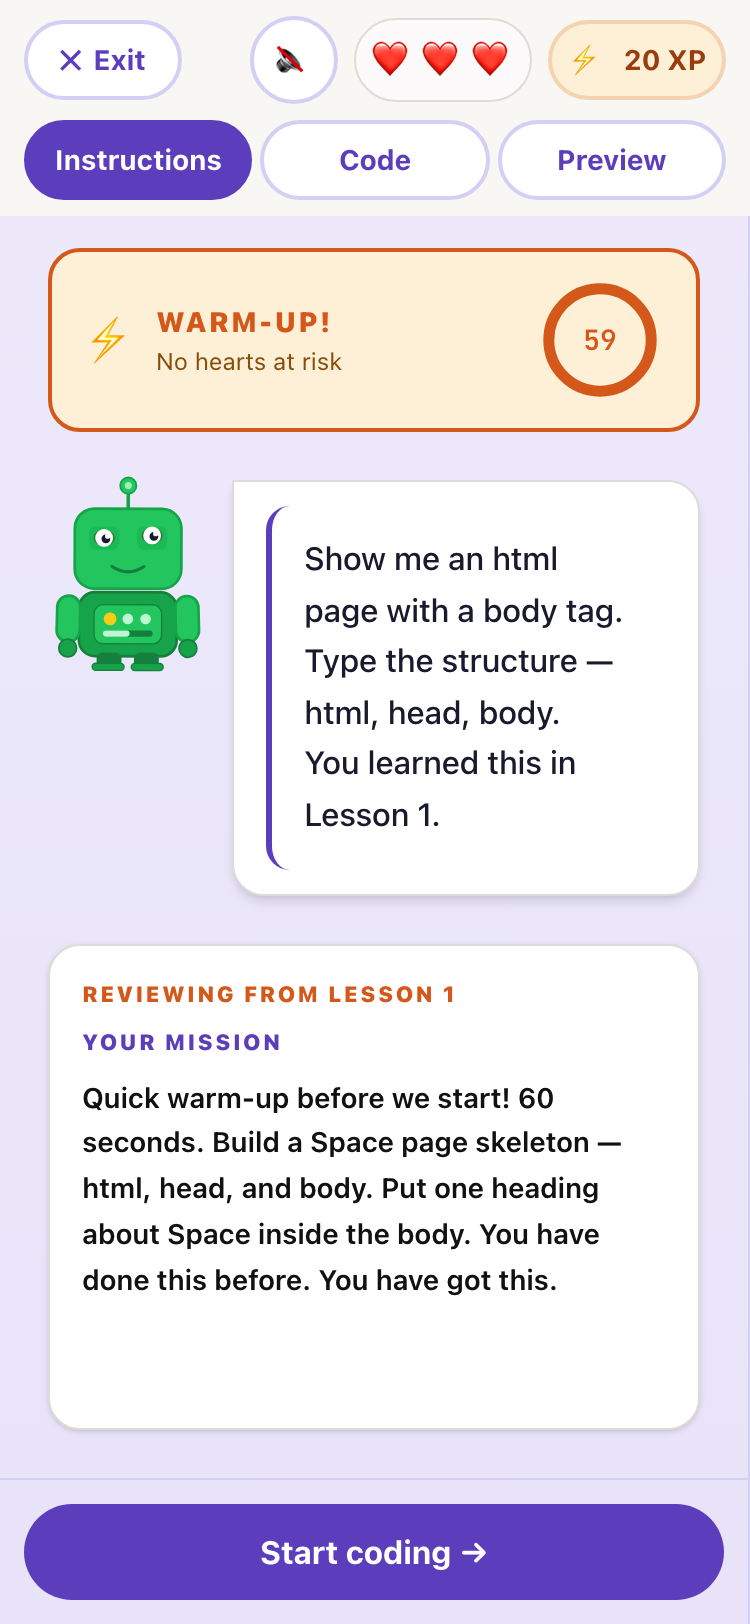
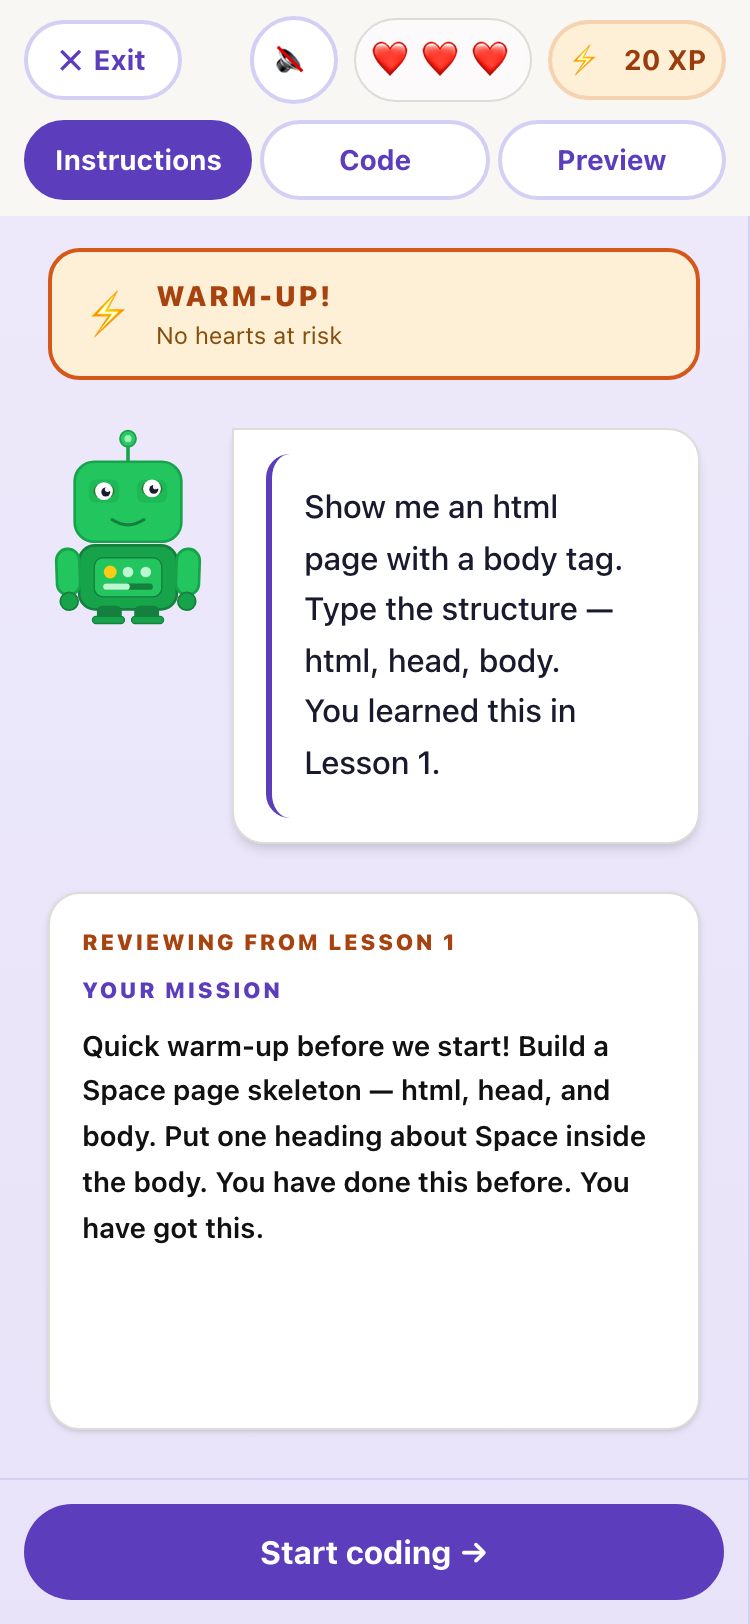
docs(case-study): record the 'after' and a before/after results page
Rerun scripts/a11y-report.mjs (same screens and settings as the
baseline) into docs/case-study/a11y-after: 0 axe violations on all 7
screens, down from 3-6 rules each. Retake responsive screenshots (no
horizontal overflow at 375/768/1280). docs/case-study/RESULTS.md
summarises accessibility (axe and accessibility trees), correctness,
learning design, security, responsive, performance and tests, each
linked to its evidence or commit.

Changed region(s): [[0.0613, 0.3079, 0.9507, 0.8005], [0.0613, 0.1539, 0.9507, 0.431]]

diff --git a/docs/case-study/RESULTS.md b/docs/case-study/RESULTS.md
@@ -1,0 +1,101 @@
+# Code4Kidz remediation: before and after
+
+Evidence for every claim below is in this folder or in the commit named next to it. The "before" is the app as
+prototyped (commit `395ae36`); the "after" is branch `chore/strip-scaffold` at `69c9148`.
+
+## Accessibility: automated (axe-core 4.13, WCAG 2.1 A/AA + best practice)
+
+Same script, same screens, same settings: `node scripts/a11y-report.mjs <dir>`.
+
+| Screen | Before: rules / elements | After |
+|---|---|---|
+| Landing | 4 / 27 | 0 / 0 |
+| Onboarding | 3 / 3 | 0 / 0 |
+| Map | 4 / 7 | 0 / 0 |
+| Lesson 1 intro | 4 / 9 | 0 / 0 |
+| Lesson step | 6 / 16 | 0 / 0 |
+| Lesson step, wrong answer shown | 6 / 16 | 0 / 0 |
+| Lesson step, hint open | 6 / 18 | 0 / 0 |
+
+Details: [`a11y-before/`](a11y-before/) and [`a11y-after/`](a11y-after/) (violations JSON, accessibility tree, screenshot
+per screen). CI now fails if any of these screens regresses (`e2e/a11y.spec.ts`, desktop and phone).
+
+## Accessibility: what a screen reader gets (the part axe cannot measure)
+
+Lesson 1, step 1, with the hint open. From the accessibility trees in `*/lesson-1-hint-open.aria.yml`.
+
+**Before**
+
+```
+- text: Not quite! Check the hint if you need help.        ← plain text, never announced
+- button "💡 Need a hint?"
+- button "Press space or tap to continue": "It starts with …"  ← the hint's name replaces its text; pressing it does nothing
+- text: ✕ Keep trying... Live Preview                      ← present before the learner has typed anything
+  (no main landmark, no heading, no named panels, editor has no name)
+```
+
+**After**
+
+```
+- banner: button "Exit", button "Turn sound effects on", "3 of 3 hearts left", "0 XP"
+- main "Lesson 1: Say Hello to the Web! — Step 1 of 5"
+  - heading level 1 (same text)
+  - status: <Byte's current message, announced when it changes>
+  - region "Instructions": …, button "Hide hint" [expanded], <the hint text itself>
+  - region "Code editor": textbox "Your code"
+  - region "Live preview": iframe
+```
+
+Keyboard: focus lands on **Continue** at the intro (Enter continues); the editor is three Tabs away; every control has a
+visible focus ring (there were none). `Check my code` also works with Ctrl/Cmd+Enter.
+
+Not yet done: a recording with a real screen reader (VoiceOver). The trees above are a machine proxy.
+
+## Correctness
+
+| Problem | Before | After | Commit |
+|---|---|---|---|
+| Streak-broken screen | white-screen crash ("Rendered more hooks") | shows and dismisses | `2e35b7b` |
+| XP, hearts, review | steps never gave XP, hearts never lost, review never reachable (stale editor callback) | all work, covered by hook tests | `2e35b7b` |
+| Answer checking | 29 of 123 test cases failed: warm-ups passed on "x", CSS steps passed on a single space, two bug-fix steps passed unfixed | 123 / 123 | `49cac03` |
+| Onboarding | entering a topic skipped both celebration screens | shown | `f3985f9` |
+| Streak | counted app opens, mixed UTC and local days, "gone for 0 days" | counts practice, local days, correct count, migrated saves | `d8478ed` |
+| Sounds | every sound 404'd | synthesised tones | `b4fed31` |
+| Early check race | a quick "Check my code" result was overwritten by the step prompt | kept | `69c9148` |
+
+## Learning design (cognitive load)
+
+- Pausing to think no longer counts as a mistake. Before, 2.5s of unfinished code counted, and every third cost a
+  heart. Mistakes now count only when the learner presses **Check my code** (`2241e10`).
+- Hints are available from the start instead of after two "mistakes".
+- The warm-up's 60-second countdown (which turned red and then did nothing) is gone.
+- Copy that wasn't true is fixed: no "millions of people will see it", and the preview's tab now really shows the
+  page title as lesson 1 promises.
+
+## Security
+
+The preview iframe used `allow-scripts allow-same-origin`. Reproduced before the fix: a `<script>` typed into the lesson
+editor renamed the app's tab and read its saved progress. After: `sandbox=""`; the same script does nothing
+(`04c867b`).
+
+## Responsive
+
+At 375px the lesson screen was three ~125px columns under an overlapping header ([before](responsive/before-phone.png)).
+Now phones get a header row, an Instructions / Code / Preview switcher and a stacked review screen, with no horizontal
+overflow at 375, 768 or 1280px ([after](responsive/after-phone.png)). A full lesson plus review was completed at 375px.
+
+## Performance
+
+| | Before | After |
+|---|---|---|
+| JavaScript on first load (gzip) | 367 KB (one bundle) | 146 KB; the editor loads on the first lesson |
+| Map: DOM subtrees torn down during 60 mouse moves | 180 | 0 |
+
+## Tests
+
+| | Before | After |
+|---|---|---|
+| Unit / component tests | 0 | 196 |
+| End-to-end + axe (desktop and phone) | 0 | 12 |
+| Lint (react-hooks rules) | not configured, 39 errors when added | 0 errors |
+| CI | none | typecheck, lint, tests, build, e2e on every push and PR |

diff --git a/docs/case-study/a11y-after/SUMMARY.md b/docs/case-study/a11y-after/SUMMARY.md
@@ -1,0 +1,9 @@
+| Screen | axe rules violated | elements affected | rules |
+|---|---|---|---|
+| landing | 0 | 0 | none |
+| onboarding | 0 | 0 | none |
+| map | 0 | 0 | none |
+| lesson-1-intro | 0 | 0 | none |
+| lesson-1-step-1 | 0 | 0 | none |
+| lesson-1-wrong-answer | 0 | 0 | none |
+| lesson-1-hint-open | 0 | 0 | none |
